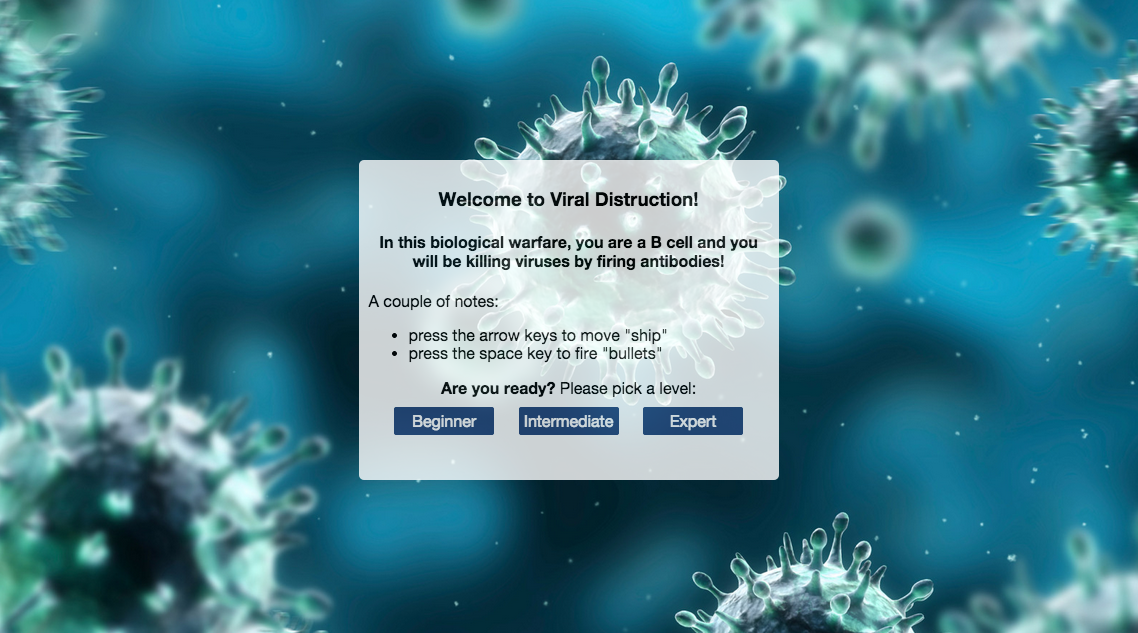
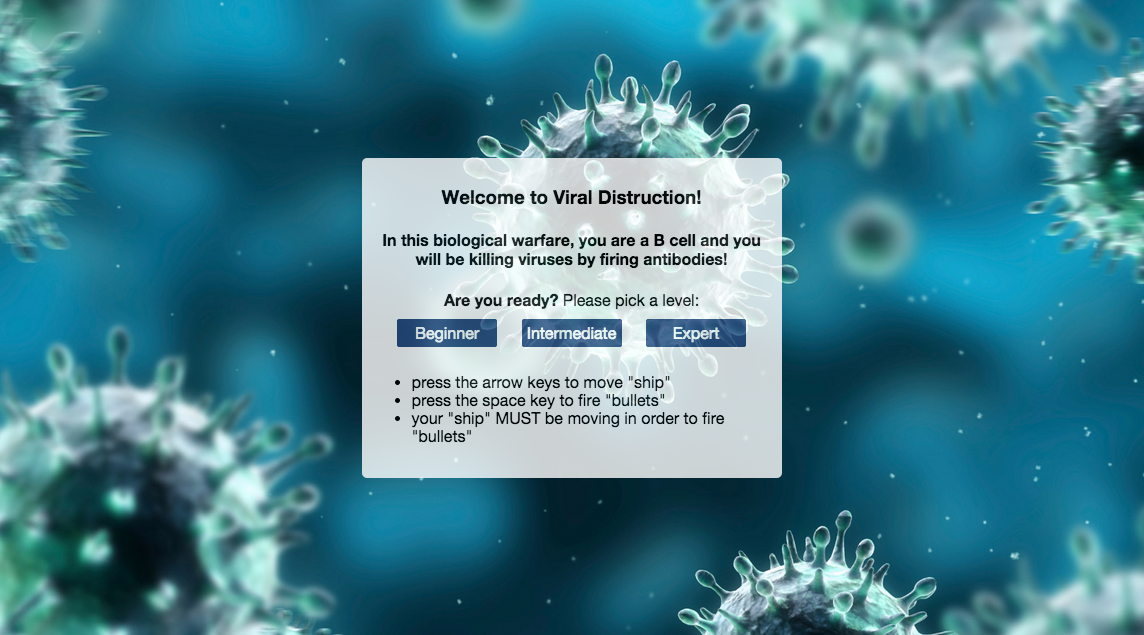
updated index layout and readme to reflect change

diff --git a/index.html b/index.html
@@ -31,17 +31,18 @@
     <div class="start" data-canvas="canvas">
       <h3>Welcome to Viral Distruction!</h3>
       <h4>In this biological warfare, you are a B cell and you will be killing viruses by firing antibodies!</h4>
-      <p>A couple of notes:
-        <ul>
-          <li>press the arrow keys to move "ship"</li>
-          <li>press the space key to fire "bullets"</li>
-        </ul>
-      </p>
       <div class="levels">
         <strong>Are you ready?</strong> Please pick a level:<br>
         <button class="beginner">Beginner</button>
         <button class="intermediate">Intermediate</button>
         <button class="expert">Expert</button>
+      </div>
+      <div class="rules">
+        <ul>
+          <li>press the arrow keys to move "ship"</li>
+          <li>press the space key to fire "bullets"</li>
+          <li>your "ship" MUST be moving in order to fire "bullets"</li>
+        </ul>
       </div>
     </div>
   </body>
